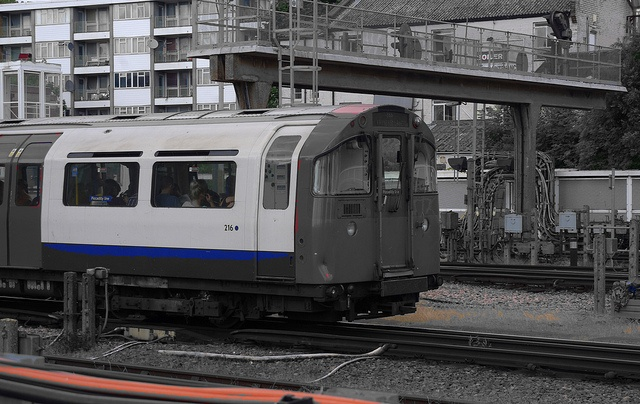
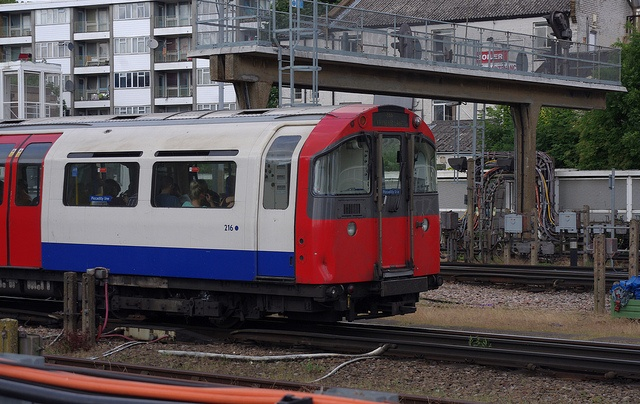
added comments and removed unnecessary code

diff --git a/v1.py b/v1.py
@@ -8,34 +8,35 @@ import cv2
 from matplotlib.pyplot import imshow
 import numpy as np
 import os
-from sympy import continued_fraction_iterator
-
 
 def static_saliency(img, numb):
     
-    saliency = cv2.saliency.StaticSaliencyFineGrained_create()#
+    saliency = cv2.saliency.StaticSaliencyFineGrained_create()# calculating the static saliency fine grained map
     (success, saliencyMap) = saliency.computeSaliency(img)
-    newSaliencyMap=saliencyMap*255
+    newSaliencyMap=saliencyMap*255#opencv returns a floating point number when computing saliency so multiplying by 255 sets it to be within the limits of 0-255
 
-    threshMap = cv2.threshold(newSaliencyMap.astype("uint8"), 0, 255, cv2.THRESH_BINARY | cv2.THRESH_OTSU)[1]
+    threshMap = cv2.threshold(newSaliencyMap.astype("uint8"), 0, 255, cv2.THRESH_BINARY | cv2.THRESH_OTSU)[1]#thresholding saliency map using otsu's algorithm to get a binary mask that is used when choosing areas that should be in colour
     
-    output_img = gray = cv2.cvtColor(img, cv2.COLOR_BGR2GRAY)
+    output_img = cv2.cvtColor(img, cv2.COLOR_BGR2GRAY) #creating a greyscale copy of the original image
+    output_img = cv2.cvtColor(output_img,cv2.COLOR_GRAY2RGB)#converting the greyscale image back to rgb values so that we can set the greyscale value to the RGB tuple
     
-    for i in range(len(threshMap)):
-        for j in range(len(threshMap[0])):
-            if (threshMap[i][j]==0):
-                img[i][j] = np.array([output_img[i][j],output_img[i][j],output_img[i][j]])
-
     
+    # cv2.imwrite(data_path+"train_output\\v1\\"+str(numb)+"_p.jpg",img)
+    # cv2.imwrite(data_path+"train_output\\v1\\"+str(numb)+"_thr.jpg",threshMap)
     cv2.imwrite(data_path+"test_output\\v1\\"+str(numb)+"_p.jpg",img)
     cv2.imwrite(data_path+"test_output\\v1\\"+str(numb)+"_thr.jpg",threshMap)
+    # cv2.imshow("Output image",img)
+    # cv2.imshow("Output", threshMap)
+    # cv2.waitKey(0)
 
-
-
-data_path = os.path.dirname(os.getcwd())+"\\data\\"
+data_path = os.getcwd()+"\\"
 files = os.listdir(data_path)
-# img = cv2.imread(data_path+"test_data\\"+str(14)+'.jpg')
+# img = cv2.imread(data_path+"test_data\\"+str(1)+'.jpg')
 # static_saliency(img,1)
+#runnning test and train images
+# for i in range(1,11):
+#     img = cv2.imread(data_path+"train_data\\"+str(i)+'.jpg')
+#     static_saliency(img,i)
 for i in range(1,11):
     img = cv2.imread(data_path+"test_data\\"+str(i)+'.jpg')
     static_saliency(img,i)
